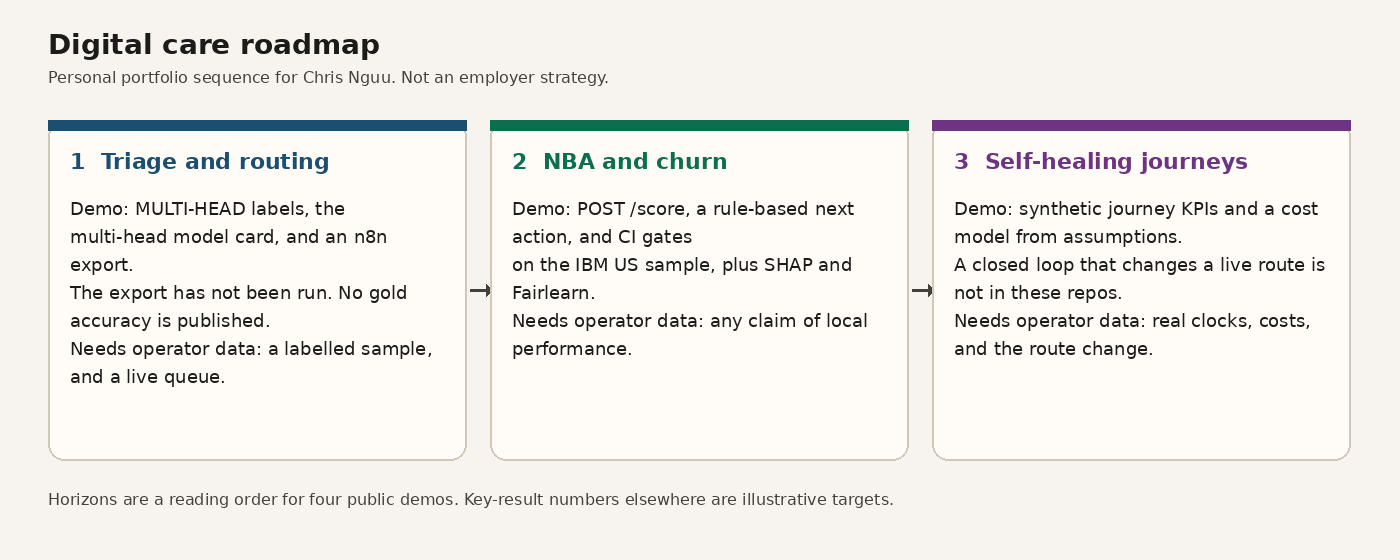
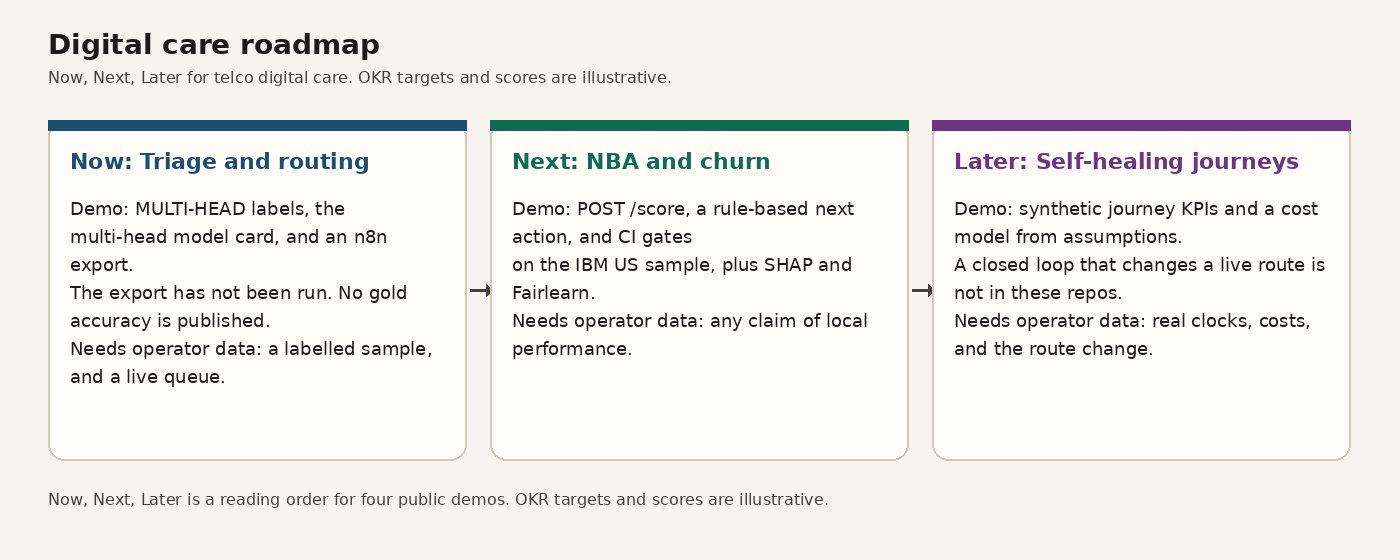
Reword README around the business problem and Now/Next/Later

diff --git a/scripts/render_roadmap.py b/scripts/render_roadmap.py
@@ -48,28 +48,28 @@ def main():
     draw.text((48, 28), "Digital care roadmap", font=title, fill=INK)
     draw.text(
         (48, 68),
-        "Personal portfolio sequence for Chris Nguu. Not an employer strategy.",
+        "Now, Next, Later for telco digital care. OKR targets and scores are illustrative.",
         font=small,
         fill=MUTED,
     )
 
     cards = [
         (
-            "1  Triage and routing",
+            "Now: Triage and routing",
             (27, 79, 114),
             "Demo: MULTI-HEAD labels, the multi-head model card, and an n8n export.\n"
             "The export has not been run. No gold accuracy is published.\n"
             "Needs operator data: a labelled sample, and a live queue.",
         ),
         (
-            "2  NBA and churn",
+            "Next: NBA and churn",
             (11, 110, 79),
             "Demo: POST /score, a rule-based next action, and CI gates\n"
             "on the IBM US sample, plus SHAP and Fairlearn.\n"
             "Needs operator data: any claim of local performance.",
         ),
         (
-            "3  Self-healing journeys",
+            "Later: Self-healing journeys",
             (108, 52, 131),
             "Demo: synthetic journey KPIs and a cost model from assumptions.\n"
             "A closed loop that changes a live route is not in these repos.\n"
@@ -103,7 +103,7 @@ def main():
 
     draw.text(
         (48, 490),
-        "Horizons are a reading order for four public demos. Key-result numbers elsewhere are illustrative targets.",
+        "Now, Next, Later is a reading order for four public demos. OKR targets and scores are illustrative.",
         font=small,
         fill=MUTED,
     )

diff --git a/README.md b/README.md
@@ -1,22 +1,28 @@
 # Digital care roadmap
 
-A personal portfolio planning artefact by Chris Nguu. It puts four public demos in a reading order: triage and routing, then next-best action and churn, then self-healing journeys.
+Which care-analytics capability should a telco build first, and how would you know it worked?
 
-This is not an employer strategy, not an operator plan, and not a record of work done inside a company. No employer data is used. Key results and the value/effort scores below are **illustrative targets and planning scores**, not achieved results.
+A Now / Next / Later product roadmap that sequences the four earlier projects, with OKRs as goals and a value-versus-effort backlog of 17 issues (#3 to #19), two sprint plans and a pilot charter. Part of an independent portfolio series on telecom customer analytics, built alongside my MSc in Data Science. It builds on the CRISP-DM projects in the series.
 
-## Roadmap
+## Key results (capability and scope)
 
-![Three horizons: triage and routing, NBA and churn, self-healing journeys](docs/roadmap.png)
+- 3 horizons: Now (triage and routing), Next (NBA and churn), Later (self-healing journeys).
+- 17 backlog items (3 epics, 14 stories) scored on value vs effort, 1 to 5 scale.
+- OKR targets and scores are illustrative planning values, not achieved results.
+
+## Now, Next, Later
+
+![Now, Next, Later: triage and routing, NBA and churn, self-healing journeys](docs/roadmap.png)
 
 `scripts/render_roadmap.py` draws that image. The same sequence in text:
 
 ```mermaid
 flowchart LR
-  h1["Horizon 1<br/>Triage and routing"] --> h2["Horizon 2<br/>NBA and churn"]
-  h2 --> h3["Horizon 3<br/>Self-healing journeys"]
+  h1["Now<br/>Triage and routing"] --> h2["Next<br/>NBA and churn"]
+  h2 --> h3["Later<br/>Self-healing journeys"]
 ```
 
-### Horizon 1 — Triage and routing
+### Now - Triage and routing
 
 Demo, today:
 
@@ -25,23 +31,23 @@ Demo, today:
 
 Needs operator data before this is anything but a demo: a labelled sample, and a workflow run against a real queue. Do not quote the smoke floors as accuracy.
 
-### Horizon 2 — NBA and churn
+### Next - NBA and churn
 
 Demo, today:
 
 - [telco-churn-nba-engine](https://github.com/ChristopherKiokoStrathmore/telco-churn-nba-engine) trains on the IBM Telco Customer Churn file, 7,043 rows, US sample. `POST /score` returns a churn probability, path contributions, a CLV proxy, add-on propensities, and a rule-based next action. On the published holdout the gradient-boosting churn model has ROC-AUC 0.846001, PR-AUC 0.656070, and top-decile lift 2.806733, against a dummy prior at ROC-AUC 0.500000. Those numbers are that holdout, not an operator result. Uptake scores are current add-on holding, not campaign response. The action table is a policy, not an uplift model.
-- [responsible-ai-pack](https://github.com/ChristopherKiokoStrathmore/responsible-ai-pack) pins that repo at `21f6115931f4358ebc7cc87d9ba1f4d87fd015aa`. It recomputes the same three metrics, draws TreeSHAP plots, runs Fairlearn on gender and SeniorCitizen, and fails CI under floors 0.82, 0.63, and 2.60. The pack calls itself a personal framework, not an employer policy.
+- [responsible-ai-pack](https://github.com/ChristopherKiokoStrathmore/responsible-ai-pack) pins that repo at `21f6115931f4358ebc7cc87d9ba1f4d87fd015aa`. It recomputes the same three metrics, draws TreeSHAP plots, runs Fairlearn on gender and SeniorCitizen, and fails CI under floors 0.82, 0.63, and 2.60.
 
 Needs operator data before anyone calls this local performance: an operator extract, a refit, and a new pin. The IBM metrics stay IBM metrics.
 
-### Horizon 3 — Self-healing journeys
+### Later - Self-healing journeys
 
 What the demos actually are:
 
 - [omnichannel-care-analytics](https://github.com/ChristopherKiokoStrathmore/omnichannel-care-analytics) computes journey KPIs on a seeded synthetic log (seed 20260929, 4,000 journeys). Charts are Plotly HTML labelled SYNTHETIC. Bitext supplies the intent taxonomy. The full Kaggle Twitter corpus was not downloaded: unauthenticated requests did not return the file, and no Kaggle credentials were used. pm4py is not used. The process view is a DuckDB directly-follows table.
 - [care-automation-roi](https://github.com/ChristopherKiokoStrathmore/care-automation-roi) prices containment from `assumptions.yaml`. Every input is an illustrative placeholder. On those placeholders the base bot scenario shows payback 8.47 months and year-1 ROI 0.4175. There is no Streamlit app. The sensitivity chart is a committed PNG, `reports/charts/roi_sensitivity_tornado.png`, plus an HTML twin.
 
-What is not built: a loop that changes a live route when a digital attempt fails. Horizon 3 is that loop. The four repos do not contain it.
+What is not built: a loop that changes a live route when a digital attempt fails. Later is that loop. The four repos do not contain it.
 
 Needs operator data: replace `config/synthetic.yaml` and `assumptions.yaml` with operator measurements, using the swap steps those READMEs already print. Until then the rates and the payback stay synthetic or illustrative.
 
@@ -73,9 +79,9 @@ Illustrative targets. None of these is a result this portfolio has achieved on o
 | KR2 | Cost and containment inputs are replaced from operator sources, and the placeholder label comes off only after that swap. | The label is still on every input. |
 | KR3 | A failed digital attempt changes the next route in a named pilot path. | No repo implements that change. |
 
-## Value versus effort
+## Backlog and prioritisation
 
-Scores are illustrative planning scores for this artefact, on a 1–5 scale. They are not measured benefit and not hours. The quadrant is a reading aid for the backlog. Overlapping scores are nudged on the chart so the labels fit. The table is the score.
+Scores are illustrative planning scores for this artefact, on a 1-5 scale. They are not measured benefit and not hours. The quadrant is a reading aid for the backlog. Overlapping scores are nudged on the chart so the labels fit. The table is the score.
 
 | Item | Issue | Value | Effort | Quadrant | Status |
 | --- | --- | --- | --- | --- | --- |
@@ -121,7 +127,7 @@ quadrantChart
 
 Epics: [#3](https://github.com/ChristopherKiokoStrathmore/digital-care-roadmap/issues/3) triage, [#8](https://github.com/ChristopherKiokoStrathmore/digital-care-roadmap/issues/8) NBA and churn, [#13](https://github.com/ChristopherKiokoStrathmore/digital-care-roadmap/issues/13) self-healing journeys. The full sheet is [backlog.csv](backlog.csv).
 
-## Sprint plans and pilot charter
+## Pilot plan
 
 Two sprint plans, with user stories and Given / When / Then criteria: [docs/sprint-plans.md](docs/sprint-plans.md).
 
@@ -135,11 +141,13 @@ Epics and stories are GitHub issues in this repository: [#3](https://github.com/
 
 A GitHub Projects board was **not** created. `createProjectV2` for owner ChristopherKiokoStrathmore was denied, and creating labels or milestones returned HTTP 403. Issues [#1](https://github.com/ChristopherKiokoStrathmore/digital-care-roadmap/issues/1) and [#2](https://github.com/ChristopherKiokoStrathmore/digital-care-roadmap/issues/2) are permission probes (`probe issue delete me`, `label probe`). The same token cannot edit or close them. They are not backlog items.
 
-There is no board link. Run [scripts/create_board.sh](scripts/create_board.sh) with a user token that has `project` and `repo` scope. The script closes the two probes if it can, creates labels and milestones, applies them from `backlog.csv`, creates the user-level Project, and adds issues #3–#19. Until that script prints a URL, the board does not exist.
+There is no board link. Run [scripts/create_board.sh](scripts/create_board.sh) with a user token that has `project` and `repo` scope. The script closes the two probes if it can, creates labels and milestones, applies them from `backlog.csv`, creates the user-level Project, and adds issues #3-#19. Until that script prints a URL, the board does not exist.
 
-## Retrospective of Projects 1–4
+## Lessons learned
 
-This section is only what `git log` and GitHub Actions showed on 29 September 2026 for the four repos. It does not record stand-ups, planning ceremonies, velocities, story points, teammates, or durations of effort. It does not say who typed the changes. Names below are the git author and committer fields.
+All four projects were built on 29 September 2026 as a self-directed portfolio series. The git history records 26 commits and six CI runs. Five runs passed. One run in care-automation-roi failed on the first attempt because the package was not on the test path; commit [dcc01d2](https://github.com/ChristopherKiokoStrathmore/care-automation-roi/commit/dcc01d2d2b538b075f223e0066d12f5e112a0db5) fixed `pytest.ini` and the next run passed. Lessons: set up the test path before the first push; keep every published number traceable to a committed output file; label synthetic and illustrative figures inline.
+
+The notes below are what `git log` and GitHub Actions showed on 29 September 2026. Names are the git author and committer fields.
 
 All 26 commits, and all six Actions runs, are dated 29 September 2026. The first commit is 11:39:58Z. The last Actions run updated at 13:08:43Z. That is the span of the recorded timestamps, not a measure of hours worked.
 
@@ -198,12 +206,16 @@ No other failure appears in the six runs.
 - The n8n file has not been imported or executed.
 - MULTI-HEAD accuracy on gold labels is not documented in that source repo. The responsible-ai pack does not invent it and does not call the live API to manufacture a number.
 
+## Data and scope
+
+Built on public and synthetic data as an independent portfolio project.
+
 ## Limitations
 
-- Personal portfolio artefact. Not an employer strategy, not a Safaricom plan, and not a production roadmap.
-- Illustrative OKR targets and the 1–5 scores are planning labels in this repo. They are not measurements.
-- The retrospective stops at git history and Actions for the four repos on 29 September 2026. Anything those records do not show is omitted on purpose.
-- Horizon 3's closed loop is not implemented.
-- Projects 1–4 use the IBM US sample, a synthetic journey log, Bitext intent names, a short Twitter preview, and labelled cost assumptions. None of that is operator customer data.
+- This roadmap sequences public demos. It is not a production operating plan.
+- Illustrative OKR targets and the 1-5 scores are planning labels in this repo. They are not measurements.
+- Lessons learned stop at git history and Actions for the four repos on 29 September 2026. Anything those records do not show is omitted on purpose.
+- The closed loop in Later is not implemented.
+- Projects 1-4 use the IBM US sample, a synthetic journey log, Bitext intent names, a short Twitter preview, and labelled cost assumptions. None of that is operator customer data.
 - The Projects board does not exist until `scripts/create_board.sh` is run successfully. Issues #1 and #2 are probes, not scope.
 - This repo does not add a new model, a new dataset, or a new metric.

diff --git a/docs/pilot-charter.md b/docs/pilot-charter.md
@@ -1,13 +1,13 @@
 # Pilot / proof-of-concept charter
 
-Template for a personal portfolio pilot. Copy it, fill the blanks, and leave a blank empty when the number is not in one of the public repos. This is not an employer charter and it authorises no production traffic.
+Template for an independent portfolio pilot. Copy it, fill the blanks, and leave a blank empty when the number is not in one of the public repos. Filling it in does not authorise production traffic.
 
 ## Header
 
 | Field | Entry |
 | --- | --- |
 | Pilot name | |
-| Horizon (1 triage, 2 NBA, or 3 journeys) | |
+| Horizon (Now / triage, Next / NBA, or Later / journeys) | |
 | Owner | |
 | Start / decision date | |
 | Starting repo | |
@@ -27,7 +27,7 @@ Quote only a figure that the pinned README or metrics file prints. Write the dat
 | --- | --- | --- |
 | | | No |
 
-Do not paste customer records, credentials, or employer extracts into the portfolio repos.
+Do not paste customer records, credentials, or operator extracts into the portfolio repos.
 
 ## Out of scope
 
@@ -57,7 +57,7 @@ Stop the pilot when a gated metric falls under the floor written for that model,
 
 ## Worked example (not a live pilot)
 
-Horizon 1, starting from [care-automation-roi](https://github.com/ChristopherKiokoStrathmore/care-automation-roi) and [MULTI-HEAD-](https://github.com/ChristopherKiokoStrathmore/MULTI-HEAD-).
+Now (horizon 1), starting from [care-automation-roi](https://github.com/ChristopherKiokoStrathmore/care-automation-roi) and [MULTI-HEAD-](https://github.com/ChristopherKiokoStrathmore/MULTI-HEAD-).
 
 Hypothesis: an `emergency` label can be branched to a senior queue in the committed n8n export, without quoting a measured accuracy.
 

diff --git a/docs/sprint-plans.md b/docs/sprint-plans.md
@@ -1,10 +1,10 @@
 # Two sprint plans
 
-Personal portfolio plans for Chris Nguu. These sprints were not run. The git history of Projects 1–4 does not record sprint ceremonies, and this file does not invent any. Each story checks a public demo, or it names operator data the demo does not have.
+Independent portfolio plans. These sprints were not run. The git history of Projects 1-4 does not record sprint ceremonies, and this file does not invent any. Each story checks a public demo, or it names operator data the demo does not have.
 
 Acceptance criteria use Given / When / Then. Issue links are the backlog items in this repository. Labels and milestones are applied by `scripts/create_board.sh`, which has not been run.
 
-## Sprint 1 — Triage routing contract
+## Sprint 1 - Triage routing contract
 
 Goal: a reader can see what the triage demo does, and what it must not be quoted as.
 
@@ -41,7 +41,7 @@ As a routing designer, I want the committed n8n file to send an `emergency` labe
 - Given [workflows/README.md](https://github.com/ChristopherKiokoStrathmore/care-automation-roi/blob/dcc01d2d2b538b075f223e0066d12f5e112a0db5/workflows/README.md), when a reader asks whether the file has been imported or executed, then the README says it has not.
 - Given the file's `active` flag, when it is read, then the flag is `false`.
 
-## Sprint 2 — NBA demo behind the published gates
+## Sprint 2 - NBA demo behind the published gates
 
 Goal: the IBM-sample score, the rule, and the governance pack stay tied together. Operator refit is out of the sprint ([#12](https://github.com/ChristopherKiokoStrathmore/digital-care-roadmap/issues/12)).
 
